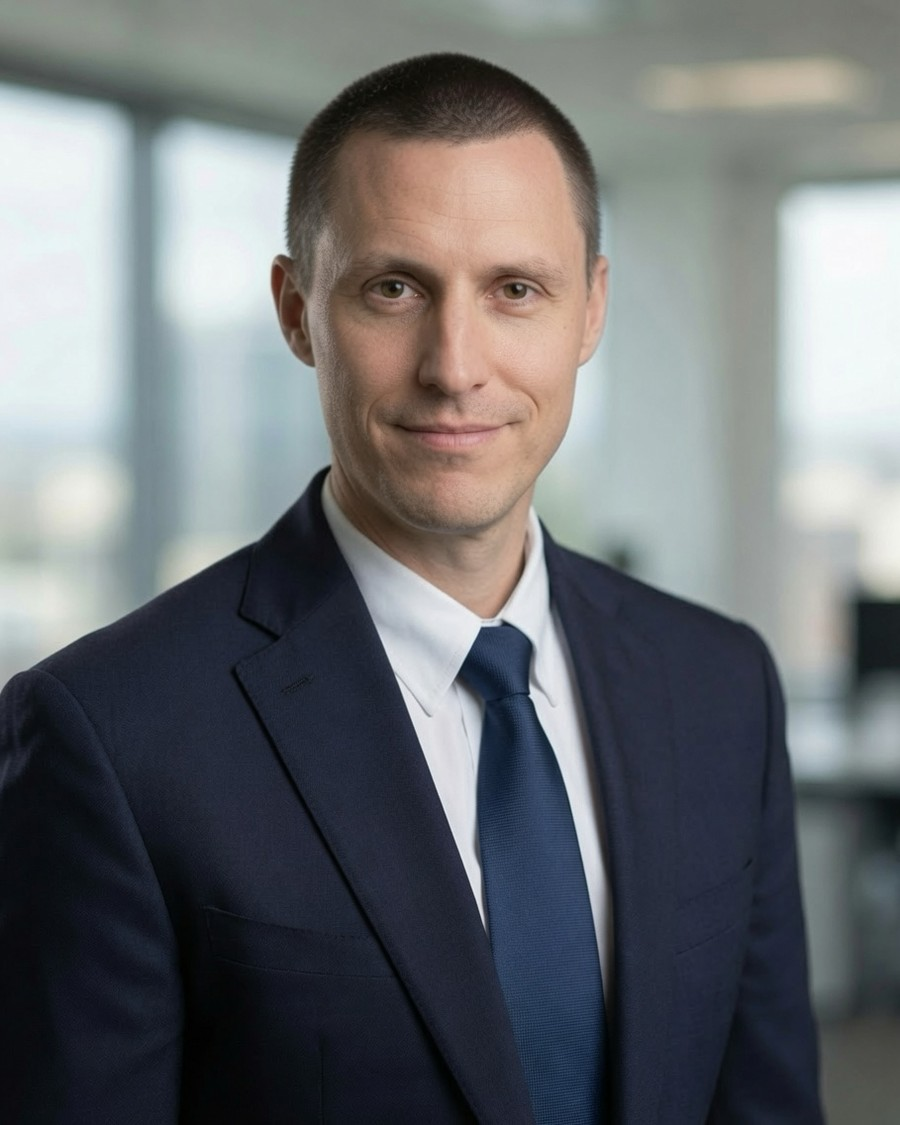
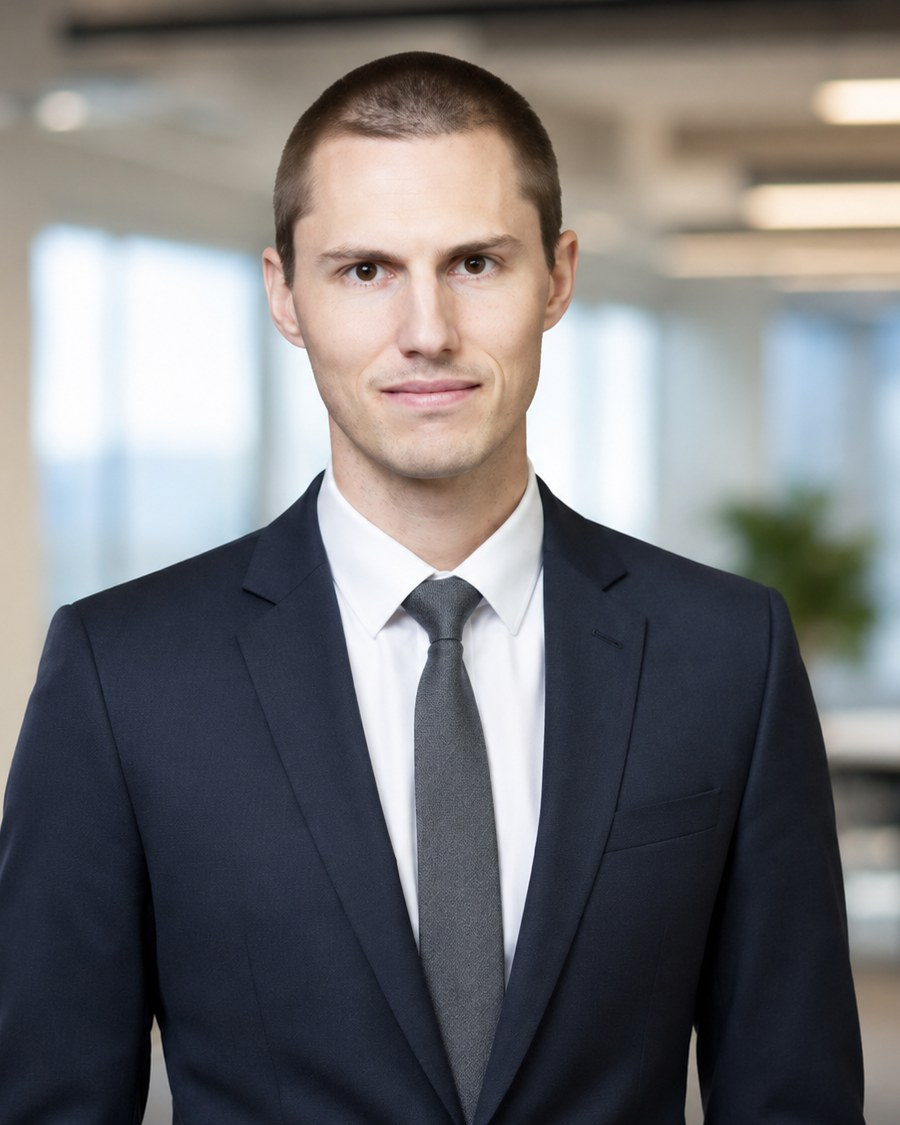
Use color bio headshots

diff --git a/css/styles.css b/css/styles.css
@@ -48,7 +48,6 @@ html.page-transition-active body { background: #0c222c; }
   object-fit: cover !important;
   object-position: center top !important;
   border-radius: 999px !important;
-  filter: grayscale(1) contrast(0.92) brightness(0.96) !important;
   opacity: 0.84 !important;
   box-shadow: 0 0 0 1px rgba(255,255,255,0.18), 0 24px 60px rgba(0,0,0,0.28) !important;
 }
@@ -123,7 +122,6 @@ html.page-transition-active body { background: #0c222c; }
   border-radius: 999px !important;
   object-fit: cover !important;
   object-position: center top !important;
-  filter: grayscale(1) contrast(0.92) brightness(0.96) !important;
   box-shadow: 0 0 0 1px rgba(255,255,255,0.18), 0 24px 60px rgba(0,0,0,0.28) !important;
 }
 
@@ -3363,7 +3361,6 @@ html:not(.launch-lock) .home-launch-simple .partners[data-review-id="home.team-p
   height: 100%;
   object-fit: cover;
   object-position: center top;
-  filter: grayscale(1) contrast(0.96);
 }
 
 @media (max-width: 900px) {

diff --git a/bio-andrew-devine.html b/bio-andrew-devine.html
@@ -29,7 +29,7 @@
 <link rel="preconnect" href="https://fonts.gstatic.com" crossorigin>
 <link href="https://fonts.googleapis.com/css2?family=DM+Sans:ital,opsz,wght@0,9..40,100..1000;1,9..40,100..1000&family=Inter:wght@400;500;600;700&display=swap" rel="stylesheet" media="print" onload="this.media='all'">
 <style>html{background:#fff}</style>
-<link rel="stylesheet" href="css/styles.css?v=20260706-bio-rule-tighten">
+<link rel="stylesheet" href="css/styles.css?v=20260706-bio-color-headshots">
 <script>document.documentElement.classList.add("auth-lock");</script>
 <script src="js/password-protect.js?v=20260702-dolly" defer></script>
 <script src="js/review-config.js" defer></script>

diff --git a/bio-bridget-ruschak.html b/bio-bridget-ruschak.html
@@ -26,7 +26,7 @@
 <link rel="preconnect" href="https://fonts.gstatic.com" crossorigin>
 <link href="https://fonts.googleapis.com/css2?family=DM+Sans:ital,opsz,wght@0,9..40,100..1000;1,9..40,100..1000&family=Inter:wght@400;500;600;700&display=swap" rel="stylesheet" media="print" onload="this.media='all'">
 <style>html{background:#fff}</style>
-<link rel="stylesheet" href="css/styles.css?v=20260706-bio-rule-tighten">
+<link rel="stylesheet" href="css/styles.css?v=20260706-bio-color-headshots">
 <script>document.documentElement.classList.add("auth-lock");</script>
 <script src="js/password-protect.js?v=20260702-dolly" defer></script>
 <script src="js/review-config.js" defer></script>

diff --git a/bio-caroline-creagan.html b/bio-caroline-creagan.html
@@ -26,7 +26,7 @@
 <link rel="preconnect" href="https://fonts.gstatic.com" crossorigin>
 <link href="https://fonts.googleapis.com/css2?family=DM+Sans:ital,opsz,wght@0,9..40,100..1000;1,9..40,100..1000&family=Inter:wght@400;500;600;700&display=swap" rel="stylesheet" media="print" onload="this.media='all'">
 <style>html{background:#fff}</style>
-<link rel="stylesheet" href="css/styles.css?v=20260706-bio-rule-tighten">
+<link rel="stylesheet" href="css/styles.css?v=20260706-bio-color-headshots">
 <script>document.documentElement.classList.add("auth-lock");</script>
 <script src="js/password-protect.js?v=20260702-dolly" defer></script>
 <script src="js/review-config.js" defer></script>

diff --git a/bio-frank-dylewski.html b/bio-frank-dylewski.html
@@ -26,7 +26,7 @@
 <link rel="preconnect" href="https://fonts.gstatic.com" crossorigin>
 <link href="https://fonts.googleapis.com/css2?family=DM+Sans:ital,opsz,wght@0,9..40,100..1000;1,9..40,100..1000&family=Inter:wght@400;500;600;700&display=swap" rel="stylesheet" media="print" onload="this.media='all'">
 <style>html{background:#fff}</style>
-<link rel="stylesheet" href="css/styles.css?v=20260706-bio-rule-tighten">
+<link rel="stylesheet" href="css/styles.css?v=20260706-bio-color-headshots">
 <script>document.documentElement.classList.add("auth-lock");</script>
 <script src="js/password-protect.js?v=20260702-dolly" defer></script>
 <script src="js/review-config.js" defer></script>

diff --git a/bio-hannah-amundsen.html b/bio-hannah-amundsen.html
@@ -26,7 +26,7 @@
 <link rel="preconnect" href="https://fonts.gstatic.com" crossorigin>
 <link href="https://fonts.googleapis.com/css2?family=DM+Sans:ital,opsz,wght@0,9..40,100..1000;1,9..40,100..1000&family=Inter:wght@400;500;600;700&display=swap" rel="stylesheet" media="print" onload="this.media='all'">
 <style>html{background:#fff}</style>
-<link rel="stylesheet" href="css/styles.css?v=20260706-bio-rule-tighten">
+<link rel="stylesheet" href="css/styles.css?v=20260706-bio-color-headshots">
 <script>document.documentElement.classList.add("auth-lock");</script>
 <script src="js/password-protect.js?v=20260702-dolly" defer></script>
 <script src="js/review-config.js" defer></script>

diff --git a/bio-jaran-moten.html b/bio-jaran-moten.html
@@ -29,7 +29,7 @@
 <link rel="preconnect" href="https://fonts.gstatic.com" crossorigin>
 <link href="https://fonts.googleapis.com/css2?family=DM+Sans:ital,opsz,wght@0,9..40,100..1000;1,9..40,100..1000&family=Inter:wght@400;500;600;700&display=swap" rel="stylesheet" media="print" onload="this.media='all'">
 <style>html{background:#fff}</style>
-<link rel="stylesheet" href="css/styles.css?v=20260706-bio-rule-tighten">
+<link rel="stylesheet" href="css/styles.css?v=20260706-bio-color-headshots">
 <script>document.documentElement.classList.add("auth-lock");</script>
 <script src="js/password-protect.js?v=20260702-dolly" defer></script>
 <script src="js/review-config.js" defer></script>

diff --git a/bio-joel.html b/bio-joel.html
@@ -29,7 +29,7 @@
 <link rel="preconnect" href="https://fonts.gstatic.com" crossorigin>
 <link href="https://fonts.googleapis.com/css2?family=DM+Sans:ital,opsz,wght@0,9..40,100..1000;1,9..40,100..1000&family=Inter:wght@400;500;600;700&display=swap" rel="stylesheet" media="print" onload="this.media='all'">
 <style>html{background:#fff}</style>
-<link rel="stylesheet" href="css/styles.css?v=20260706-bio-rule-tighten">
+<link rel="stylesheet" href="css/styles.css?v=20260706-bio-color-headshots">
 <script>document.documentElement.classList.add("auth-lock");</script>
 <script src="js/password-protect.js?v=20260702-dolly" defer></script>
 <script src="js/review-config.js" defer></script>

diff --git a/bio-john-worth.html b/bio-john-worth.html
@@ -29,7 +29,7 @@
 <link rel="preconnect" href="https://fonts.gstatic.com" crossorigin>
 <link href="https://fonts.googleapis.com/css2?family=DM+Sans:ital,opsz,wght@0,9..40,100..1000;1,9..40,100..1000&family=Inter:wght@400;500;600;700&display=swap" rel="stylesheet" media="print" onload="this.media='all'">
 <style>html{background:#fff}</style>
-<link rel="stylesheet" href="css/styles.css?v=20260706-bio-rule-tighten">
+<link rel="stylesheet" href="css/styles.css?v=20260706-bio-color-headshots">
 <script>document.documentElement.classList.add("auth-lock");</script>
 <script src="js/password-protect.js?v=20260702-dolly" defer></script>
 <script src="js/review-config.js" defer></script>

diff --git a/bio-myles-bartley.html b/bio-myles-bartley.html
@@ -29,7 +29,7 @@
 <link rel="preconnect" href="https://fonts.gstatic.com" crossorigin>
 <link href="https://fonts.googleapis.com/css2?family=DM+Sans:ital,opsz,wght@0,9..40,100..1000;1,9..40,100..1000&family=Inter:wght@400;500;600;700&display=swap" rel="stylesheet" media="print" onload="this.media='all'">
 <style>html{background:#fff}</style>
-<link rel="stylesheet" href="css/styles.css?v=20260706-bio-rule-tighten">
+<link rel="stylesheet" href="css/styles.css?v=20260706-bio-color-headshots">
 <script>document.documentElement.classList.add("auth-lock");</script>
 <script src="js/password-protect.js?v=20260702-dolly" defer></script>
 <script src="js/review-config.js" defer></script>

diff --git a/bio-robert-reagan.html b/bio-robert-reagan.html
@@ -29,7 +29,7 @@
 <link rel="preconnect" href="https://fonts.gstatic.com" crossorigin>
 <link href="https://fonts.googleapis.com/css2?family=DM+Sans:ital,opsz,wght@0,9..40,100..1000;1,9..40,100..1000&family=Inter:wght@400;500;600;700&display=swap" rel="stylesheet" media="print" onload="this.media='all'">
 <style>html{background:#fff}</style>
-<link rel="stylesheet" href="css/styles.css?v=20260706-bio-rule-tighten">
+<link rel="stylesheet" href="css/styles.css?v=20260706-bio-color-headshots">
 <script>document.documentElement.classList.add("auth-lock");</script>
 <script src="js/password-protect.js?v=20260702-dolly" defer></script>
 <script src="js/review-config.js" defer></script>

diff --git a/bio-stefan-engelhardt.html b/bio-stefan-engelhardt.html
@@ -26,7 +26,7 @@
 <link rel="preconnect" href="https://fonts.gstatic.com" crossorigin>
 <link href="https://fonts.googleapis.com/css2?family=DM+Sans:ital,opsz,wght@0,9..40,100..1000;1,9..40,100..1000&family=Inter:wght@400;500;600;700&display=swap" rel="stylesheet" media="print" onload="this.media='all'">
 <style>html{background:#fff}</style>
-<link rel="stylesheet" href="css/styles.css?v=20260706-bio-rule-tighten">
+<link rel="stylesheet" href="css/styles.css?v=20260706-bio-color-headshots">
 <script>document.documentElement.classList.add("auth-lock");</script>
 <script src="js/password-protect.js?v=20260702-dolly" defer></script>
 <script src="js/review-config.js" defer></script>
